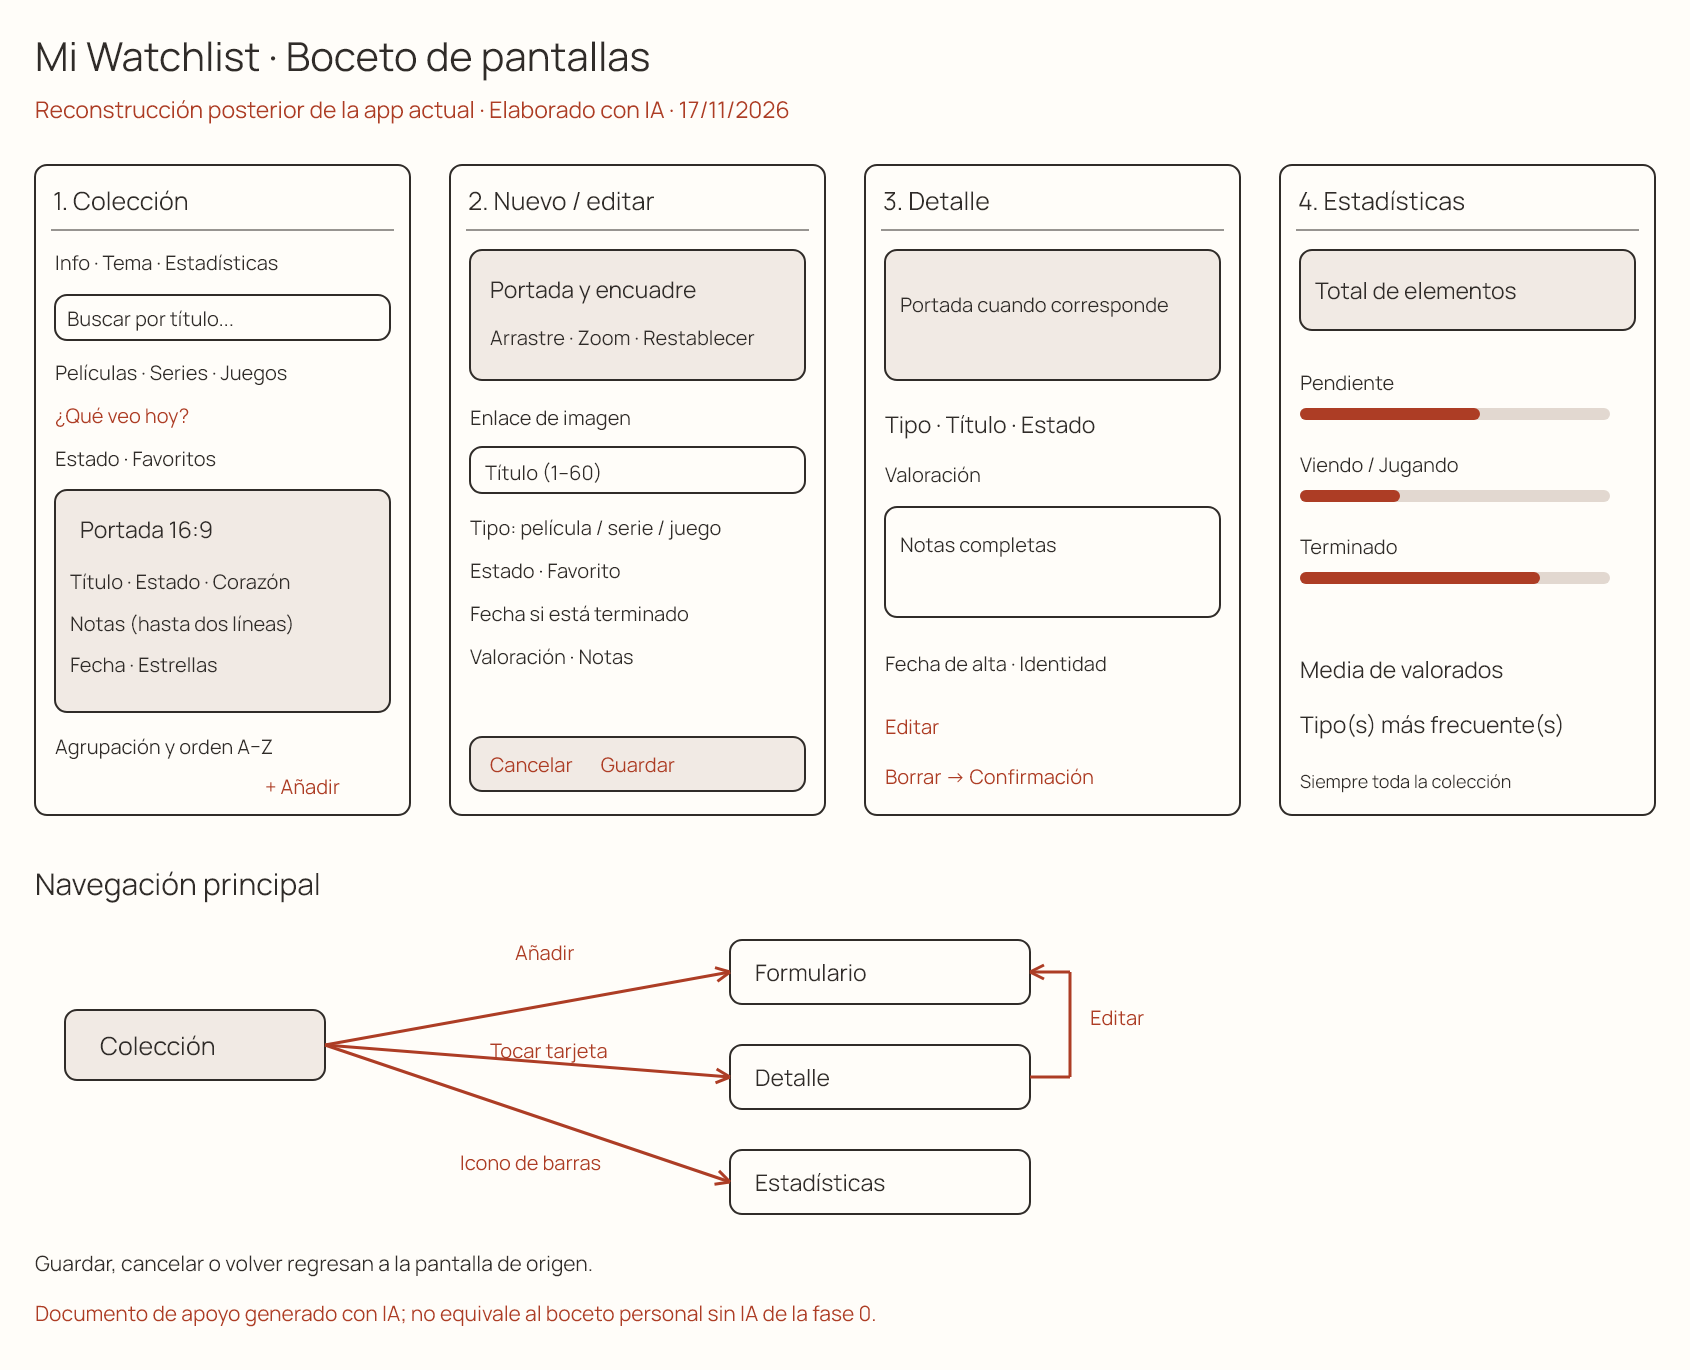
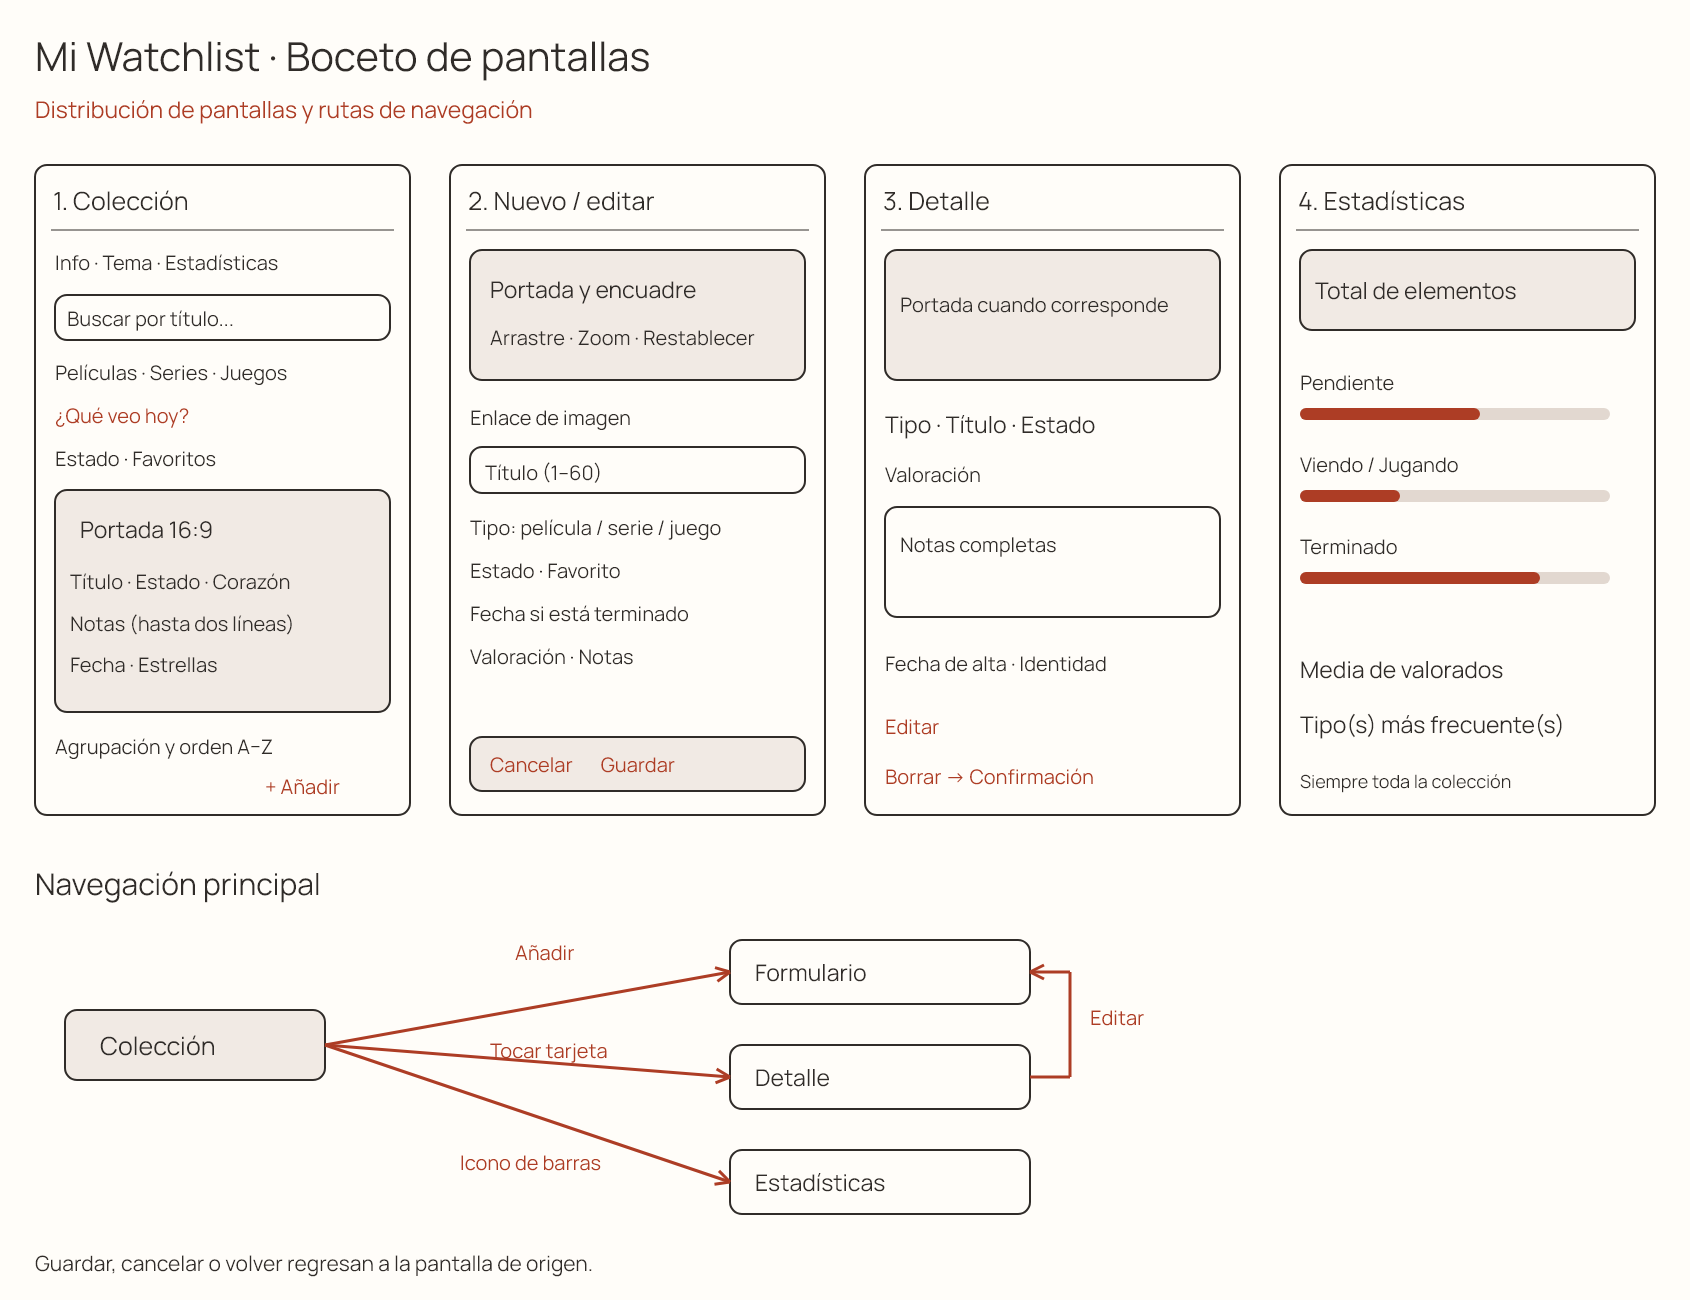
Limpia los avisos del boceto y conserva su procedencia documental

diff --git a/tool/boceto_documentacion_test.dart b/tool/boceto_documentacion_test.dart
@@ -7,9 +7,7 @@ import 'package:flutter/services.dart';
 import 'package:flutter_test/flutter_test.dart';
 
 void main() {
-  testWidgets('exporta el boceto documental con procedencia visible', (
-    tester,
-  ) async {
+  testWidgets('exporta el boceto documental limpio', (tester) async {
     final fuente = FontLoader('Manrope')
       ..addFont(rootBundle.load('assets/fonts/Manrope-Regular.ttf'));
     await fuente.load();
@@ -72,7 +70,7 @@ void main() {
     canvas.drawColor(const Color(0xFFFFFDF9), BlendMode.src);
     texto('Mi Watchlist · Boceto de pantallas', 35, 30, size: 40, ancho: 1600);
     texto(
-      'Reconstrucción posterior de la app actual · Elaborado con IA · 17/11/2026',
+      'Distribución de pantallas y rutas de navegación',
       35,
       95,
       size: 23,
@@ -201,18 +199,10 @@ void main() {
       size: 21,
       ancho: 1600,
     );
-    texto(
-      'Documento de apoyo generado con IA; no equivale al boceto personal sin IA de la fase 0.',
-      35,
-      1300,
-      size: 21,
-      ancho: 1600,
-      color: coral,
-    );
 
     await tester.runAsync(() async {
       final picture = recorder.endRecording();
-      final image = await picture.toImage(1690, 1370);
+      final image = await picture.toImage(1690, 1300);
       final bytes = await image.toByteData(format: ui.ImageByteFormat.png);
       expect(bytes!.lengthInBytes, greaterThan(1000));
       await File('docs/boceto.png').writeAsBytes(bytes.buffer.asUint8List());

diff --git a/docs/bitacora_ia.md b/docs/bitacora_ia.md
@@ -29,7 +29,7 @@ para presentarlas como comprensión propia.
 **Prompts:** contexto R09–R11 del registro. No hay una transcripción original
 separada por esta fase que se pueda reproducir como petición real.
 
-**Resultado técnico actual:** Hay un boceto de apoyo reconstruido con IA a petición posterior de Mario. La figura y boceto.md indican su origen; no acredita el boceto personal sin IA de la fase inicial.
+**Resultado técnico actual:** Hay un boceto de apoyo reconstruido con IA a petición posterior de Mario. boceto.md indica su origen; no acredita el boceto personal sin IA de la fase inicial.
 
 **Código/evidencia:** docs/boceto.png y estructura de carpetas.
 
@@ -237,6 +237,7 @@ separada por esta fase que se pueda reproducir como petición real.
 | R20 | Primera preparación documental y datos de autor/asignatura. |
 | R21 | Rehacer todos los documentos desde el código y reservar capturas a Mario; se retiran las imágenes anteriores de la entrega. |
 | R22 | Mario solicita después nuevas capturas y boceto a la IA. Se generan 16 renders del código actual y una reconstrucción marcada como IA, incorporados a documentos y ZIP. |
+| R23 | Se retiran los avisos de la imagen del boceto a petición de Mario; boceto.md y esta bitácora conservan la procedencia real. |
 
 ## Decisiones y problemas técnicos observados por la IA
 
@@ -250,7 +251,7 @@ separada por esta fase que se pueda reproducir como petición real.
 - google_fonts, url_launcher y package_info_plus exceden los paquetes permitidos por
   el enunciado. No consta aceptación docente y no se oculta esa diferencia.
 - Después de rehacer la documentación, Mario solicita a la IA las capturas y el boceto.
-  Se generan desde los widgets actuales y con un diagrama de procedencia visible,
+  Se generan desde los widgets actuales y con un diagrama cuya procedencia se conserva documentada,
   sin presentar renders como capturas físicas ni reconstrucciones como bocetos propios.
 
 ## Revisión personal de las ampliaciones

diff --git a/README.md b/README.md
@@ -72,7 +72,7 @@ No se presentan como capturas de un móvil físico. [Registro completo](docs/cap
 Reconstrucción posterior con IA de las cuatro pantallas y sus rutas; no es un
 boceto inicial realizado personalmente sin IA. [Procedencia](docs/boceto.md).
 
-![Boceto documental con procedencia visible](docs/boceto.png)
+![Boceto de las pantallas y navegación](docs/boceto.png)
 
 ## Ejecutar y comprobar
 
@@ -132,5 +132,5 @@ Tras añadir capturas o revisar texto hay que volver a ejecutarlo. El ZIP incluy
 las capturas nuevas y el boceto documental de esta revisión.
 
 Quedan las reflexiones y respuestas propias de la bitácora y la revisión personal
-de comentarios. El boceto adjunto está identificado como IA y no acredita el boceto
+de comentarios. La procedencia de IA del boceto consta en docs/boceto.md; no acredita el boceto
 personal sin IA de la fase 0 del enunciado.

diff --git a/docs/boceto.md b/docs/boceto.md
@@ -8,7 +8,8 @@
 
 Esta figura se ha elaborado con IA a petición de Mario después de implementar la
 aplicación. Es una reconstrucción esquemática, no una captura de la app ni un dibujo
-personal realizado antes de programar. La imagen incluye esa identificación.
+personal realizado antes de programar. La imagen se presenta sin avisos de procedencia;
+esta explicación y la bitácora conservan la información de su elaboración.
 
 El enunciado pide un boceto de fase 0 sin IA. Este archivo sirve de apoyo para
 explicar el diseño, pero su existencia no acredita ese requisito. Si se incorpora

diff --git a/docs/entrega.md b/docs/entrega.md
@@ -17,7 +17,7 @@ Las imágenes anteriores permanecen apartadas en ../entrega/capturas-anteriores-
 ## Pendientes antes de presentar
 
 - [x] Generar capturas nuevas de la interfaz actual y enlazarlas en README.
-- [x] Incorporar el boceto de apoyo con autoría de IA visible.
+- [x] Incorporar el boceto de apoyo y documentar su procedencia en boceto.md.
 - [ ] Resolver el requisito de boceto personal sin IA: la reconstrucción adjunta
   no acredita esa actividad de fase 0. No atribuirle una procedencia distinta.
 - [ ] Completar revisión personal, aprendizajes y preguntas de cada fase.

diff --git a/docs/validacion.md b/docs/validacion.md
@@ -43,7 +43,7 @@ flutter test tool/boceto_documentacion_test.dart
 
 Ambos exportan PNG y sus comprobaciones pasan. La portada sintética se suministra
 desde caché del test; estas capturas no se usan como evidencia de acceso a una URL
-pública ni de CORS. El boceto incluye en la propia imagen su procedencia de IA.
+pública ni de CORS. La procedencia del boceto consta en boceto.md y la bitácora; la imagen no lleva ese aviso.
 
 ## Repetir formato, análisis y suite
 
